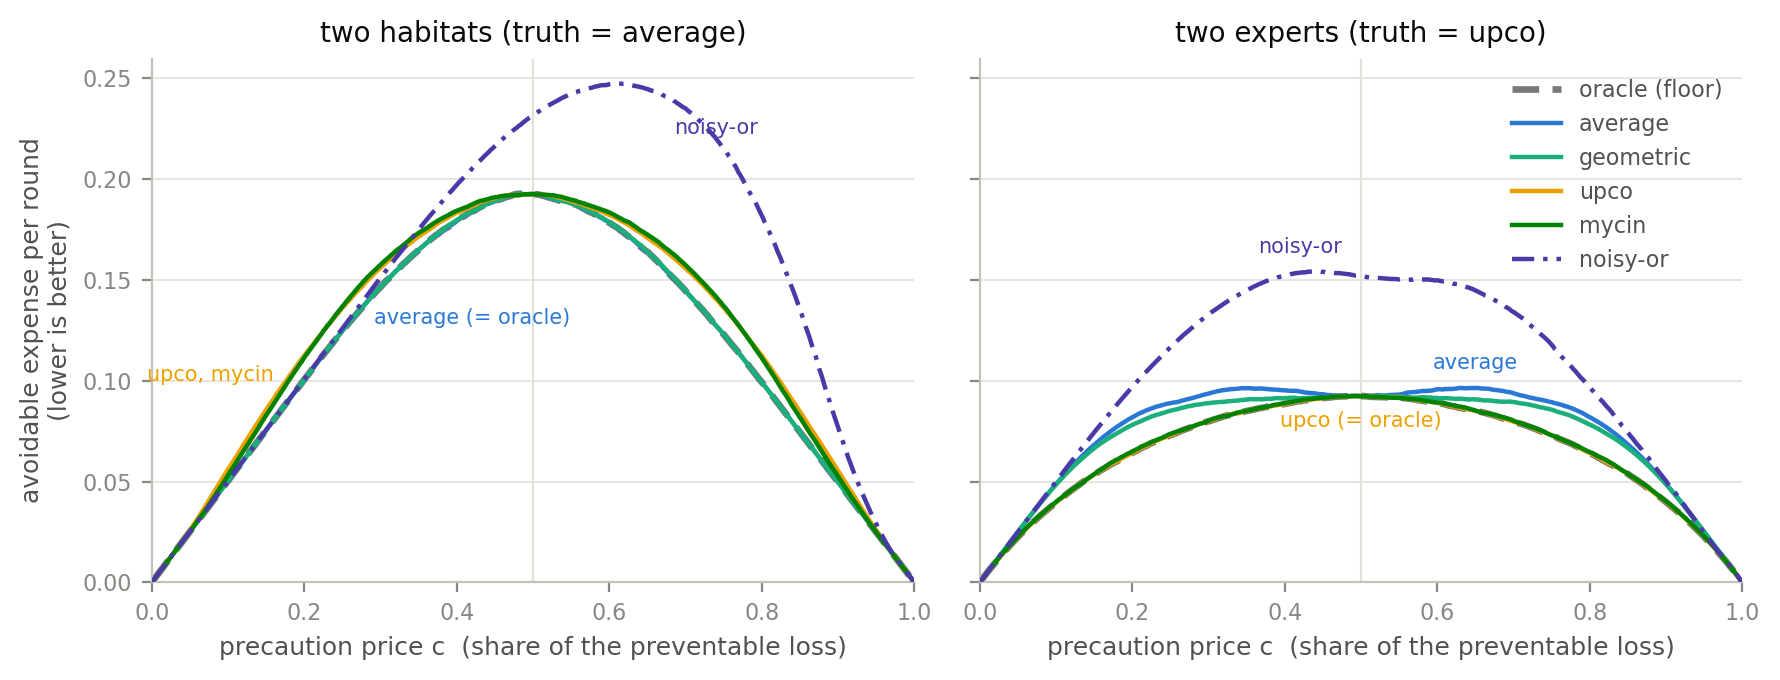
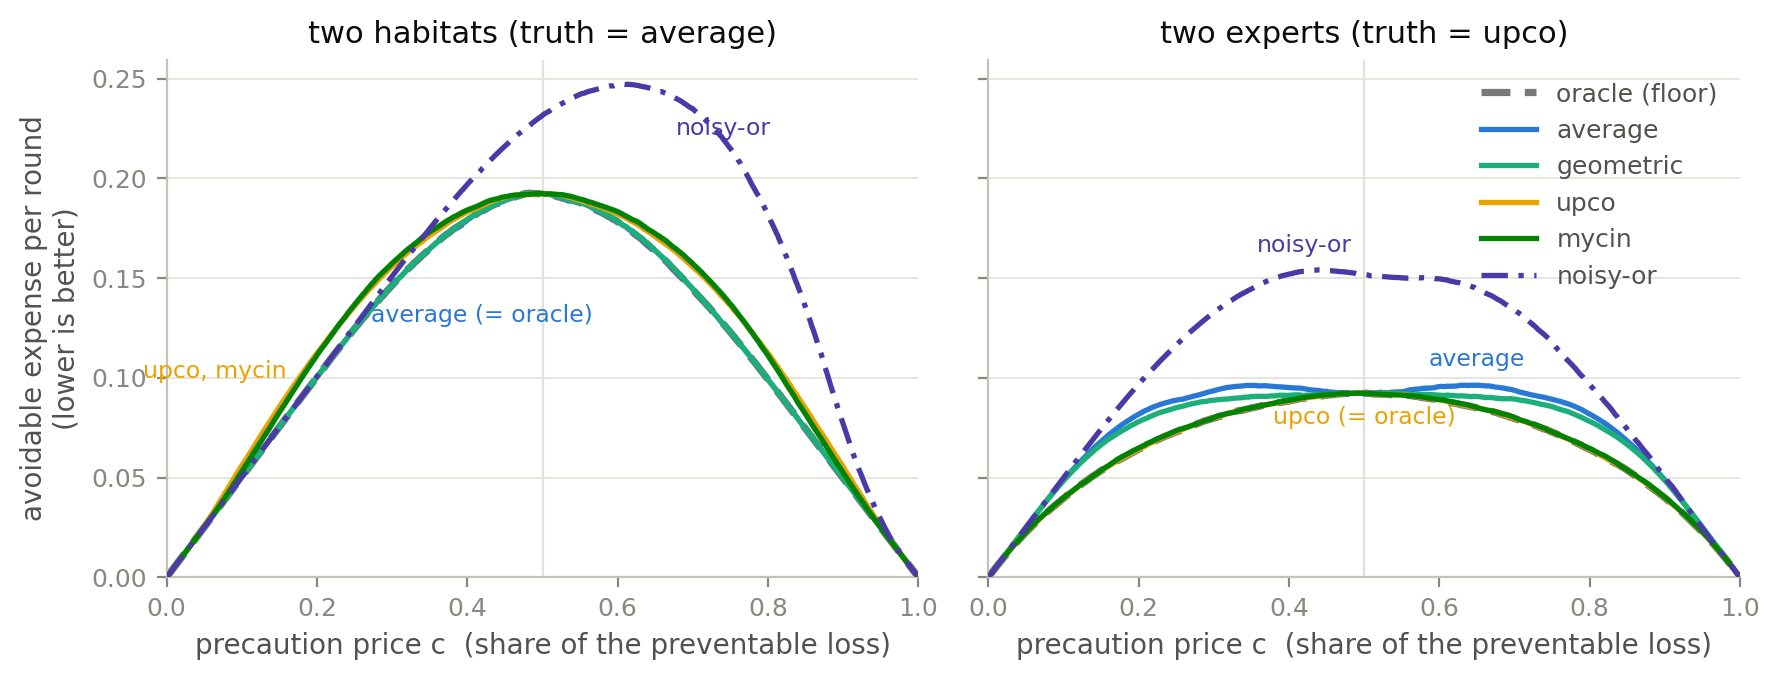
Add requirements.txt and the paper-figure generator; README notes
make_paper_figures.py regenerates the five illustration figures of the
accompanying paper (rule comparison curves, calibration curves, wealth
trajectories, extremizing-exponent sweep). Slightly larger fonts and line
widths in all figures for print readability.

diff --git a/make_paper_figures.py b/make_paper_figures.py
@@ -1,0 +1,208 @@
+#!/usr/bin/env python3
+"""
+Generate the illustration figures for the pooling paper (except the Murphy diagram,
+which is produced by decide_murphy_diagram.py):
+
+  fig_rules_probability  -- the probability-scale pools side by side: f(x,y) vs x
+                            for fixed y (two panels, y = 0.3 and y = 0.7)
+  fig_rules_confidence   -- the confidence-scale combinators side by side
+                            (two panels, y = 0.25 and y = 0.75)
+  fig_calibration        -- part-one illustration: observed frequency vs pooled value
+                            per rule in the experts world and the habitats world;
+                            the situation-matched rule lies on the diagonal
+  fig_wealth             -- part-two illustration: cumulative log2 wealth of one
+                            bettor per rule over 500 rounds in the same two worlds
+  fig_alpha              -- growth given up vs oracle across the extremizing
+                            exponent alpha, four evidence regimes
+
+Needs numpy + matplotlib. Writes .pdf and .png into this directory.
+"""
+import os, sys, math, random
+HERE = os.path.dirname(os.path.abspath(__file__))
+sys.path.insert(0, HERE)
+import numpy as np
+import matplotlib
+matplotlib.use("Agg")
+import matplotlib.pyplot as plt
+
+import poolib
+from decide_kelly_betting import world_A, world_B
+from decide_murphy_diagram import world_mixture_uniform
+from decide_extremized_weighted_logodds import (rounds_private, rounds_shared,
+                                                rounds_halfshared)
+
+SURFACE, INK, INK2, MUTED = "#ffffff", "#0b0b0b", "#52514e", "#898781"
+GRID_C, AXIS_C = "#e1e0d9", "#c3c2b7"
+COLOR = {                                  # one fixed color per rule, all figures
+    "avg":     "#2a78d6",
+    "geo":     "#1baf7a",
+    "upco":    "#eda100",
+    "mycin":   "#008300",
+    "noisyor": "#4a3aa7",
+    "max":     "#e34948",
+    "problog": "#eb6834",
+}
+LABEL = {"avg": "average", "geo": "geometric", "upco": "upco", "mycin": "mycin",
+         "noisyor": "noisy-or", "max": "max", "problog": "problog"}
+DASH = {"noisyor": (5, 2, 1, 2), "max": (4, 2)}     # help grayscale printing
+
+
+def style(ax, xlabel, ylabel=None):
+    ax.set_facecolor(SURFACE)
+    ax.grid(axis="y", color=GRID_C, lw=0.6, zorder=0)
+    ax.tick_params(colors=MUTED, labelsize=9)
+    for side in ("top", "right"):
+        ax.spines[side].set_visible(False)
+    for side in ("left", "bottom"):
+        ax.spines[side].set_color(AXIS_C)
+    ax.set_xlabel(xlabel, fontsize=10, color=INK2)
+    if ylabel:
+        ax.set_ylabel(ylabel, fontsize=10, color=INK2)
+
+
+def save(fig, name):
+    fig.tight_layout()
+    for ext in ("pdf", "png"):
+        fig.savefig(os.path.join(HERE, f"{name}.{ext}"),
+                    facecolor=SURFACE, bbox_inches="tight", dpi=200)
+    plt.close(fig)
+    print(f"  written {name}.pdf/.png")
+
+
+def curveplot(rules, ys, name, note):
+    xs = np.arange(0.0, 1.0001, 0.005)
+    fig, axes = plt.subplots(1, len(ys), figsize=(9.0, 3.4), sharey=True,
+                             dpi=200, facecolor=SURFACE)
+    for ax, y in zip(axes, ys):
+        for r in rules:
+            vals = [getattr(poolib, {"noisyor": "noisy_or", "max": "mx",
+                                     "avg": "avg", "geo": "geo", "upco": "upco",
+                                     "mycin": "mycin", "problog": "problog"}[r])(x, y)
+                    for x in xs]
+            ax.plot(xs, vals, color=COLOR[r], lw=1.9,
+                    dashes=DASH.get(r, (None, None)), label=LABEL[r], zorder=3)
+        ax.set_title(f"second input fixed at {y:g}", fontsize=11, color=INK)
+        ax.set_xlim(0, 1); ax.set_ylim(0, 1)
+        style(ax, "first input x")
+    axes[0].set_ylabel(f"pooled value ({note})", fontsize=10, color=INK2)
+    axes[0].legend(loc="upper left", fontsize=9, frameon=False,
+                   labelcolor=INK2, handlelength=2.4)
+    save(fig, name)
+
+
+def fig_calibration():
+    """Observed frequency of the event vs the pooled value, 25 equal-count bins."""
+    worlds = [("two experts (truth = upco)", world_A(T=200_000, seed=1, prior=0.5)),
+              ("two habitats (truth = average)", world_mixture_uniform(T=200_000, seed=1))]
+    rules = ["avg", "geo", "upco", "mycin", "noisyor"]
+    fns = {"avg": poolib.avg, "geo": poolib.geo, "upco": poolib.upco,
+           "mycin": poolib.mycin, "noisyor": poolib.noisy_or}
+    fig, axes = plt.subplots(1, 2, figsize=(9.0, 3.7), sharey=True,
+                             dpi=200, facecolor=SURFACE)
+    for ax, (title, rounds) in zip(axes, worlds):
+        y = np.array([r[1] for r in rounds], dtype=float)
+        p1 = np.array([r[2] for r in rounds]); p2 = np.array([r[3] for r in rounds])
+        ax.plot([0, 1], [0, 1], color=INK, lw=2.0, ls=(0, (4, 2)), alpha=0.45,
+                label="calibrated (diagonal)", zorder=2)
+        for r in rules:
+            q = np.array([fns[r](a, b) for a, b in zip(p1, p2)])
+            order = np.argsort(q)
+            qs, ys_ = q[order], y[order]
+            nb = 25
+            edges = np.linspace(0, len(q), nb + 1).astype(int)
+            mq = [qs[a:b].mean() for a, b in zip(edges[:-1], edges[1:])]
+            mf = [ys_[a:b].mean() for a, b in zip(edges[:-1], edges[1:])]
+            ax.plot(mq, mf, color=COLOR[r], lw=1.9,
+                    dashes=DASH.get(r, (None, None)), label=LABEL[r], zorder=3)
+        ax.set_title(title, fontsize=11, color=INK)
+        ax.set_xlim(0, 1); ax.set_ylim(0, 1)
+        style(ax, "pooled value q")
+    axes[0].set_ylabel("observed frequency of the event", fontsize=10, color=INK2)
+    axes[0].legend(loc="upper left", fontsize=9, frameon=False,
+                   labelcolor=INK2, handlelength=2.4)
+    save(fig, "fig_calibration")
+
+
+def fig_wealth(T=500, seed=9):
+    """One bettor per rule, cumulative log2 wealth over T rounds, even odds."""
+    worlds = [("two experts (truth = upco)", world_A(T=T, seed=seed, prior=0.5)),
+              ("two habitats (truth = average)", world_B(T=T, seed=seed))]
+    rules = ["avg", "geo", "upco", "noisyor"]
+    fns = {"avg": poolib.avg, "geo": poolib.geo, "upco": poolib.upco,
+           "noisyor": poolib.noisy_or}
+    fig, axes = plt.subplots(1, 2, figsize=(9.0, 3.7), sharex=True,
+                             dpi=200, facecolor=SURFACE)
+    for ax, (title, rounds) in zip(axes, worlds):
+        series = {r: [0.0] for r in rules}
+        series["oracle"] = [0.0]
+        for p_true, out, p1, p2 in rounds:
+            for r in rules + ["oracle"]:
+                q = p_true if r == "oracle" else fns[r](p1, p2)
+                q = min(max(q, 1e-6), 1 - 1e-6)
+                q_out = q if out else 1 - q
+                series[r].append(series[r][-1] + 1 + math.log2(q_out))
+        ax.axhline(0, color=GRID_C, lw=0.8, zorder=0)
+        ax.plot(series["oracle"], color=INK, lw=2.2, ls=(0, (4, 2)), alpha=0.5,
+                label="oracle", zorder=2)
+        for r in rules:
+            ax.plot(series[r], color=COLOR[r], lw=1.7,
+                    dashes=DASH.get(r, (None, None)), label=LABEL[r], zorder=3)
+        ax.set_title(title, fontsize=11, color=INK)
+        style(ax, "round")
+    axes[0].set_ylabel("wealth (log2 of the multiple;\n0 = starting wealth)",
+                       fontsize=10, color=INK2)
+    axes[0].legend(loc="upper left", fontsize=9, frameon=False,
+                   labelcolor=INK2, handlelength=2.4)
+    save(fig, "fig_wealth")
+
+
+def fig_alpha(T=100_000):
+    """Growth given up vs the oracle across the symmetric exponent alpha."""
+    regimes = [
+        ("calibrated, private evidence (best: 1)", rounds_private(T=T, k=1.0), "#2a78d6", ()),
+        ("fully shared evidence (best: 1/2)",      rounds_shared(T=T),          "#1baf7a", ()),
+        ("timid reports, k = 1/2 (best: 2)",       rounds_private(T=T, k=0.5),  "#eda100", ()),
+        ("half-shared evidence (no exact alpha)",  rounds_halfshared(T=T),      "#e34948", (4, 2)),
+    ]
+    alphas = np.arange(0.4, 2.6001, 0.05)
+    fig, ax = plt.subplots(figsize=(6.4, 3.8), dpi=200, facecolor=SURFACE)
+    for label, rounds, color, dash in regimes:
+        p_true = np.array([r[0] for r in rounds]); out = np.array([r[1] for r in rounds])
+        p1 = np.clip(np.array([r[2] for r in rounds]), 1e-12, 1 - 1e-12)
+        p2 = np.clip(np.array([r[3] for r in rounds]), 1e-12, 1 - 1e-12)
+        L = np.log(p1 / (1 - p1)) + np.log(p2 / (1 - p2))
+        pt = np.clip(p_true, 1e-9, 1 - 1e-9)
+        g_oracle = np.mean(np.log2(np.where(out, pt, 1 - pt))) + 1
+        gaps = []
+        for a in alphas:
+            q = np.clip(1 / (1 + np.exp(-a * L)), 1e-9, 1 - 1e-9)
+            g = np.mean(np.log2(np.where(out, q, 1 - q))) + 1
+            gaps.append(g_oracle - g)
+        gaps = np.array(gaps)
+        ax.plot(alphas, gaps, color=color, lw=1.9, dashes=dash or (None, None),
+                label=label, zorder=3)
+        i = int(np.argmin(gaps))
+        ax.plot([alphas[i]], [gaps[i]], "o", ms=4, color=color, zorder=4)
+    ax.axhline(0, color=AXIS_C, lw=0.8, zorder=1)
+    ax.set_xlim(0.4, 2.6)
+    ax.set_ylim(bottom=-0.005)
+    style(ax, "exponent alpha (both weights equal to alpha)",
+          "growth given up vs oracle (bits/round)")
+    ax.legend(loc="upper right", fontsize=9, frameon=False,
+              labelcolor=INK2, handlelength=2.4)
+    save(fig, "fig_alpha")
+
+
+def main():
+    print("generating paper figures ...")
+    curveplot(["avg", "geo", "upco", "max", "noisyor"], [0.3, 0.7],
+              "fig_rules_probability", "probability scale")
+    curveplot(["mycin", "problog", "upco"], [0.25, 0.75],
+              "fig_rules_confidence", "confidence scale")
+    fig_calibration()
+    fig_wealth()
+    fig_alpha()
+
+
+if __name__ == "__main__":
+    main()

diff --git a/decide_murphy_diagram.py b/decide_murphy_diagram.py
@@ -128,28 +128,28 @@ def plot(cv_B, cv_A, outdir):
         ax.set_facecolor(surface)
         ax.axvline(0.5, color=grid_c, lw=0.8, zorder=0)
         ax.grid(axis="y", color=grid_c, lw=0.6, zorder=0)
-        ax.plot(grid, cv["oracle"], color=ink, lw=2.4, ls=(0, (4, 2)), alpha=0.55,
+        ax.plot(grid, cv["oracle"], color=ink, lw=2.6, ls=(0, (4, 2)), alpha=0.55,
                 label="oracle (floor)", zorder=2)
         for name in RULES:
-            ax.plot(grid, cv[name], color=series[name], lw=1.6,
+            ax.plot(grid, cv[name], color=series[name], lw=1.9,
                     dashes=dashes[name] or (None, None),
                     label=FULL[name], zorder=3)
-        ax.set_title(title, fontsize=10, color=ink)
+        ax.set_title(title, fontsize=11, color=ink)
         ax.set_xlabel("precaution price c  (share of the preventable loss)",
-                      fontsize=9, color=ink2)
+                      fontsize=10, color=ink2)
         ax.set_xlim(0, 1)
         ax.set_ylim(bottom=0)
-        ax.tick_params(colors=muted, labelsize=8)
+        ax.tick_params(colors=muted, labelsize=9)
         for side in ("top", "right"):
             ax.spines[side].set_visible(False)
         for side in ("left", "bottom"):
             ax.spines[side].set_color(axis_c)
     axes[0].set_ylabel("avoidable expense per round\n(lower is better)",
-                       fontsize=9, color=ink2)
+                       fontsize=10, color=ink2)
 
     # direct labels in clear zones (positions hand-placed per panel)
     def mark(ax, text, x, y, color, ha="center"):
-        ax.text(x, y, text, fontsize=7.5, color=color, ha=ha)
+        ax.text(x, y, text, fontsize=8.5, color=color, ha=ha)
     mark(axes[0], "noisy-or", 0.74, 0.222, series["noisyor"])
     mark(axes[0], "upco, mycin", 0.16, 0.100, series["upco"], ha="right")
     mark(axes[0], "average (= oracle)", 0.42, 0.128, series["avg"])
@@ -157,7 +157,7 @@ def plot(cv_B, cv_A, outdir):
     mark(axes[1], "average", 0.65, 0.106, series["avg"])
     mark(axes[1], "upco (= oracle)", 0.50, 0.077, series["upco"])
 
-    axes[1].legend(loc="upper right", fontsize=8, frameon=False,
+    axes[1].legend(loc="upper right", fontsize=9, frameon=False,
                    labelcolor=ink2, handlelength=2.2)
     fig.tight_layout()
     for d in outdir:

diff --git a/README.md b/README.md
@@ -27,9 +27,12 @@ python3 run_all.py
 ```
 
 runs all 14 sections in about a minute. Requirements: Python 3 only — except section 14
-(the Murphy diagram figure), which needs `numpy` and `matplotlib` and is skipped with a
-notice if they are missing. Every script is also runnable on its own
-(`python3 corr_upco_bayes.py`) and importable (each has a `main()`).
+(the Murphy diagram figure), which needs `numpy` and `matplotlib`
+(`pip install -r requirements.txt`) and is skipped with a notice if they are missing. Every
+script is also runnable on its own (`python3 corr_upco_bayes.py`) and importable (each has a
+`main()`). A separate script, `make_paper_figures.py` (same requirements), regenerates the
+five illustration figures of the accompanying paper: the rule-comparison curves, the
+calibration curves, the wealth trajectories and the extremizing-exponent sweep.
 
 **What to expect.** Each section prints a short story, the Monte-Carlo frequencies next to
 the formula values (`match` / `best=...` lines), and for the betting sections a ranking of